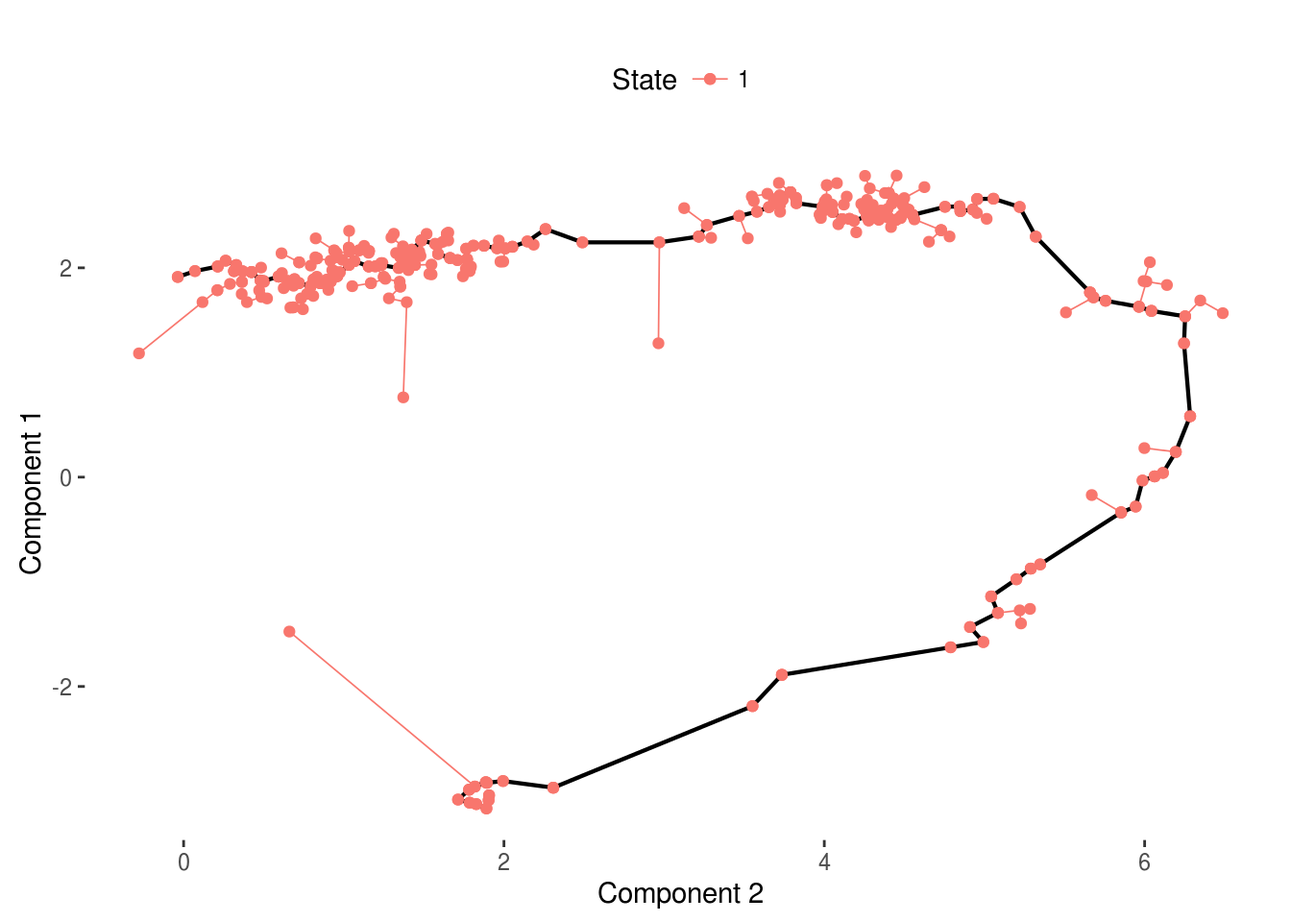
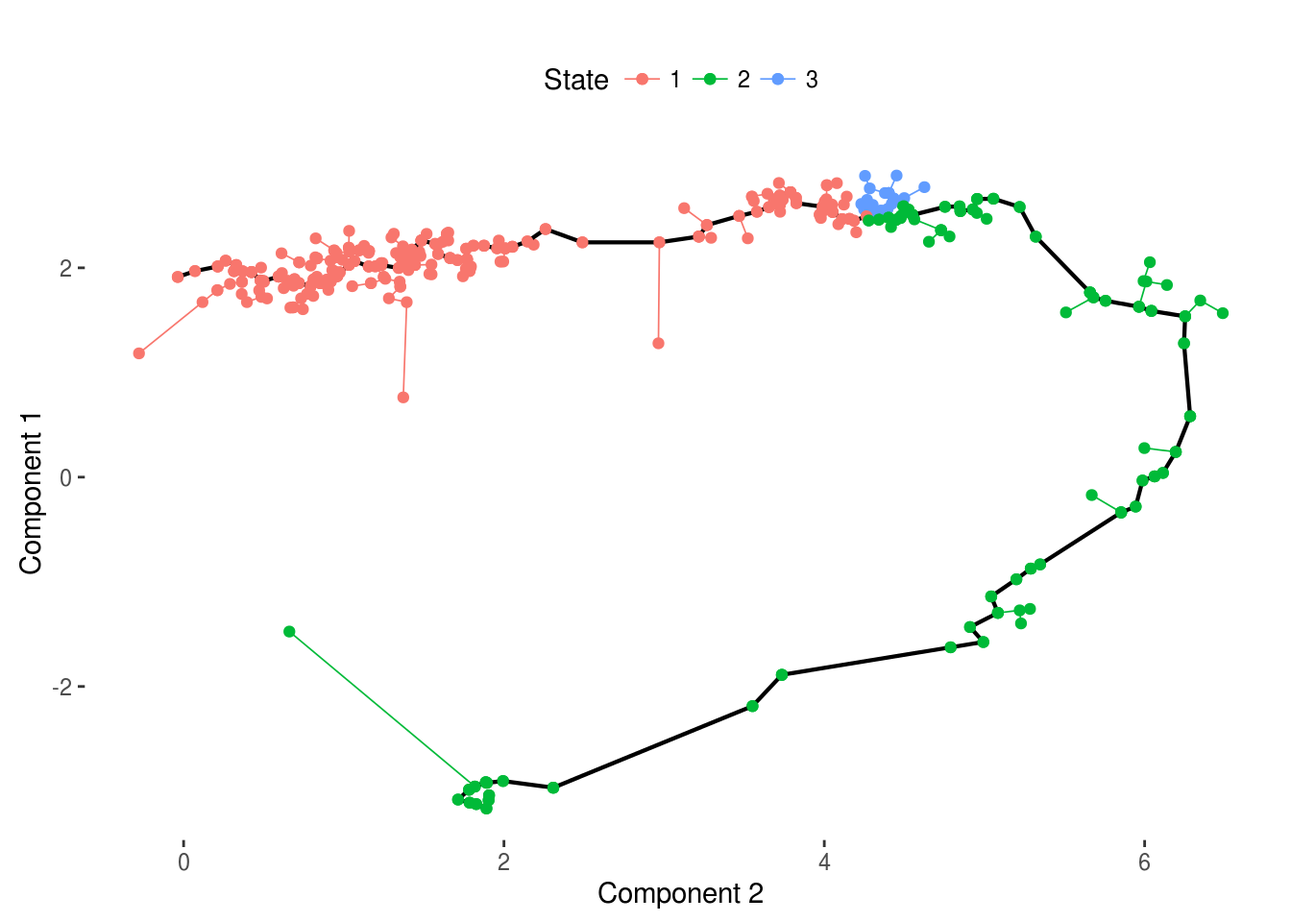
Build the book

diff --git a/ordering-of-cells-according-to-pseudotime.html b/ordering-of-cells-according-to-pseudotime.html
@@ -337,11 +337,12 @@ code > span.in { color: #60a0b0; font-weight: bold; font-style: italic; } /* Inf
 <span class="kw">library</span>(M3Drop)
 <span class="kw">library</span>(monocle)
 <span class="kw">set.seed</span>(<span class="dv">1</span>)</code></pre></div>
-<p>In many situations, one is studying a process where cells change continuously. This includes for example many differentiation processes taking place during development, where following a stimulus, cells will change from one cell-type to another. Ideally, we would like to monitor the expression levels of an individual cell over time. Unfortunately, such monitoring is not possible with scRNA-seq since the cell is lysed (killed) when the RNA is extracted.</p>
-<p>Instead, we must sample at specific time-points to obtain snapshots of the gene expression profiles. However, since some of the cells will proceed faster along the differentiation than others, the actual time may not correspond to the developmental progression. Thus, we would like to order the cells along a one-dimensional trajectory to identify the progression through state space of which can be interpreted as a temporal axis (hence the name pseudotime).</p>
+<p>In many situations, one is studying a process where cells change continuously. This includes for example many differentiation processes taking place during development, where following a stimulus, cells will change from one cell-type to another. Ideally, we would like to monitor the expression levels of an individual cell over time. Unfortunately, such monitoring is not possible with scRNA-seq since the cell is lysed (destroyed) when the RNA is extracted.</p>
+<p>Instead, we must sample at multiple time-points and obtain snapshots of the gene expression profiles. Since some of the cells will proceed faster along the differentiation than others, each snapshot may contain cells at varying points along the developmental progression. We use statistical methods to order the cells along one or more trajectories which represent the underlying developmental trajectories, this ordering is referred to a “pseudotime”.</p>
 <p>In this chapter we will consider two different tools, Monocle and TSCAN for ordering cells according to their pseudotime development. To illustrate the methods we will be using a dataset on mouse embryonic development that was collected by Deng et al. The dataset consists of 268 cells from 10 different time-points of early mouse development.</p>
 <div id="tscan" class="section level2">
 <h2><span class="header-section-number">19.1</span> TSCAN</h2>
+<p>TSCAN combines clustering with pseudotime analysis. First it clustering the cells using <code>mclust</code>, which is based on a mixture of normal distributions. Then it builds a minimum spanning tree to connect the clusters together. The branch of this tree which connects the largest number of clusters is the main branch which is used to determine pseudotime.</p>
 <p>First we will try to use all genes to order the cells.</p>
 <div class="sourceCode"><pre class="sourceCode r"><code class="sourceCode r">deng &lt;-<span class="st"> </span><span class="kw">readRDS</span>(<span class="st">&quot;deng/deng.rds&quot;</span>)
 cellLabels &lt;-<span class="st"> </span><span class="kw">colnames</span>(deng)
@@ -350,11 +351,42 @@ procdeng &lt;-<span class="st"> </span>TSCAN::<span class="kw">preprocess</span>
 dengclust &lt;-<span class="st"> </span>TSCAN::<span class="kw">exprmclust</span>(procdeng, <span class="dt">clusternum=</span><span class="dv">10</span>)
 TSCAN::<span class="kw">plotmclust</span>(dengclust)</code></pre></div>
 <p><img src="18-pseudotime_files/figure-html/tscan-all-genes-1.png" width="672" style="display: block; margin: auto;" /></p>
-<div class="sourceCode"><pre class="sourceCode r"><code class="sourceCode r">dengorderTSCAN &lt;-<span class="st"> </span>TSCAN::<span class="kw">TSCANorder</span>(dengclust, <span class="dt">orderonly=</span>F)</code></pre></div>
+<div class="sourceCode"><pre class="sourceCode r"><code class="sourceCode r">dengorderTSCAN &lt;-<span class="st"> </span>TSCAN::<span class="kw">TSCANorder</span>(dengclust, <span class="dt">orderonly=</span>F)
+pseudotime_order_tscan &lt;-<span class="st"> </span><span class="kw">as.character</span>(dengorderTSCAN$sample_name)
+pseudotime_order_tscan</code></pre></div>
+<pre><code>##   [1] &quot;9&quot;   &quot;12&quot;  &quot;3&quot;   &quot;2&quot;   &quot;8&quot;   &quot;4&quot;   &quot;1&quot;   &quot;6&quot;   &quot;10&quot;  &quot;11&quot;  &quot;7&quot;  
+##  [12] &quot;5&quot;   &quot;16&quot;  &quot;15&quot;  &quot;18&quot;  &quot;14&quot;  &quot;17&quot;  &quot;19&quot;  &quot;23&quot;  &quot;24&quot;  &quot;21&quot;  &quot;20&quot; 
+##  [23] &quot;22&quot;  &quot;29&quot;  &quot;28&quot;  &quot;30&quot;  &quot;32&quot;  &quot;13&quot;  &quot;31&quot;  &quot;27&quot;  &quot;34&quot;  &quot;25&quot;  &quot;33&quot; 
+##  [34] &quot;26&quot;  &quot;40&quot;  &quot;47&quot;  &quot;45&quot;  &quot;46&quot;  &quot;48&quot;  &quot;37&quot;  &quot;43&quot;  &quot;38&quot;  &quot;44&quot;  &quot;39&quot; 
+##  [45] &quot;41&quot;  &quot;81&quot;  &quot;85&quot;  &quot;111&quot; &quot;97&quot;  &quot;104&quot; &quot;96&quot;  &quot;128&quot; &quot;87&quot;  &quot;93&quot;  &quot;71&quot; 
+##  [56] &quot;99&quot;  &quot;114&quot; &quot;116&quot; &quot;60&quot;  &quot;64&quot;  &quot;105&quot; &quot;117&quot; &quot;100&quot; &quot;119&quot; &quot;51&quot;  &quot;115&quot;
+##  [67] &quot;108&quot; &quot;50&quot;  &quot;106&quot; &quot;89&quot;  &quot;132&quot; &quot;112&quot; &quot;58&quot;  &quot;75&quot;  &quot;63&quot;  &quot;66&quot;  &quot;65&quot; 
+##  [78] &quot;61&quot;  &quot;133&quot; &quot;120&quot; &quot;59&quot;  &quot;94&quot;  &quot;68&quot;  &quot;52&quot;  &quot;80&quot;  &quot;82&quot;  &quot;79&quot;  &quot;67&quot; 
+##  [89] &quot;91&quot;  &quot;88&quot;  &quot;124&quot; &quot;56&quot;  &quot;122&quot; &quot;62&quot;  &quot;121&quot; &quot;126&quot; &quot;125&quot; &quot;69&quot;  &quot;113&quot;
+## [100] &quot;123&quot; &quot;84&quot;  &quot;36&quot;  &quot;35&quot;  &quot;42&quot;  &quot;57&quot;  &quot;90&quot;  &quot;86&quot;  &quot;107&quot; &quot;92&quot;  &quot;70&quot; 
+## [111] &quot;135&quot; &quot;98&quot;  &quot;78&quot;  &quot;73&quot;  &quot;76&quot;  &quot;53&quot;  &quot;95&quot;  &quot;74&quot;  &quot;129&quot; &quot;55&quot;  &quot;49&quot; 
+## [122] &quot;130&quot; &quot;77&quot;  &quot;127&quot; &quot;54&quot;  &quot;134&quot; &quot;83&quot;  &quot;208&quot; &quot;228&quot; &quot;173&quot; &quot;205&quot; &quot;153&quot;
+## [133] &quot;142&quot; &quot;72&quot;  &quot;164&quot; &quot;207&quot; &quot;152&quot; &quot;179&quot; &quot;227&quot; &quot;165&quot; &quot;144&quot; &quot;169&quot; &quot;219&quot;
+## [144] &quot;171&quot; &quot;262&quot; &quot;170&quot; &quot;199&quot; &quot;253&quot; &quot;198&quot; &quot;200&quot; &quot;155&quot; &quot;212&quot; &quot;158&quot; &quot;197&quot;
+## [155] &quot;258&quot; &quot;157&quot; &quot;209&quot; &quot;156&quot; &quot;194&quot; &quot;188&quot; &quot;189&quot; &quot;252&quot; &quot;160&quot; &quot;191&quot; &quot;265&quot;
+## [166] &quot;187&quot; &quot;190&quot; &quot;195&quot; &quot;220&quot; &quot;263&quot; &quot;161&quot; &quot;213&quot; &quot;214&quot; &quot;222&quot; &quot;148&quot; &quot;196&quot;
+## [177] &quot;225&quot; &quot;259&quot; &quot;162&quot; &quot;183&quot; &quot;251&quot; &quot;193&quot; &quot;143&quot; &quot;182&quot; &quot;140&quot; &quot;206&quot; &quot;141&quot;
+## [188] &quot;201&quot; &quot;249&quot; &quot;261&quot; &quot;181&quot; &quot;239&quot; &quot;223&quot; &quot;255&quot; &quot;159&quot; &quot;260&quot; &quot;216&quot; &quot;151&quot;
+## [199] &quot;145&quot; &quot;235&quot; &quot;215&quot; &quot;211&quot; &quot;240&quot; &quot;268&quot; &quot;267&quot; &quot;257&quot; &quot;245&quot; &quot;256&quot; &quot;250&quot;
+## [210] &quot;217&quot; &quot;244&quot; &quot;237&quot; &quot;254&quot; &quot;233&quot; &quot;186&quot; &quot;234&quot; &quot;236&quot; &quot;246&quot; &quot;203&quot; &quot;180&quot;
+## [221] &quot;177&quot; &quot;149&quot; &quot;136&quot; &quot;185&quot; &quot;184&quot; &quot;231&quot; &quot;264&quot; &quot;178&quot; &quot;243&quot; &quot;204&quot; &quot;230&quot;
+## [232] &quot;176&quot; &quot;147&quot; &quot;202&quot; &quot;229&quot; &quot;154&quot; &quot;247&quot; &quot;172&quot; &quot;146&quot; &quot;232&quot; &quot;167&quot; &quot;238&quot;
+## [243] &quot;218&quot; &quot;266&quot; &quot;174&quot; &quot;168&quot; &quot;248&quot; &quot;241&quot; &quot;210&quot; &quot;242&quot; &quot;163&quot; &quot;224&quot; &quot;226&quot;
+## [254] &quot;221&quot; &quot;139&quot; &quot;150&quot; &quot;166&quot;</code></pre>
+<p>We can also examine which cells have been assigned to each state:</p>
+<div class="sourceCode"><pre class="sourceCode r"><code class="sourceCode r">cellLabels[dengclust$clusterid ==<span class="st"> </span><span class="dv">1</span>]</code></pre></div>
+<pre><code>##  [1] &quot;1&quot; &quot;1&quot; &quot;1&quot; &quot;1&quot; &quot;2&quot; &quot;2&quot; &quot;2&quot; &quot;2&quot; &quot;2&quot; &quot;2&quot; &quot;2&quot; &quot;2&quot;</code></pre>
+<p><strong>Exercise</strong> Compare results for different numbers of clusters (<code>clusternum</code>).</p>
 </div>
 <div id="monocle" class="section level2">
 <h2><span class="header-section-number">19.2</span> monocle</h2>
-<p>Unfortunately, Monocle does not work when all the genes are used, so we must carry out feature selection. First, we use M3D</p>
+<p>Monocle skips the clustering stage of TSCAN and directly builds a minimum spanning tree to connect all cells. Monocle then identifies the longest path in this tree to determine pseudotime. If the data contains diverging trajectories (i.e. one cell type differentiation into two different cell-types), monocle can identify alternative long paths in the tree using the argument <code>num_paths</code>. Each of the resulting forked paths is defined as a separate cell state, thus <code>num_paths=2</code> will identify three different cell states.</p>
+<p>Unfortunately, Monocle does not work when all the genes are used, so we must carry out feature selection. First, we use M3Drop:</p>
 <div class="sourceCode"><pre class="sourceCode r"><code class="sourceCode r">m3dGenes &lt;-<span class="st"> </span><span class="kw">as.character</span>(
     M3Drop::<span class="kw">M3Drop_Differential_Expression</span>(deng, <span class="dt">suppress.plot=</span>T)$Gene
 )
@@ -372,55 +404,47 @@ dCellData &lt;-<span class="st"> </span>monocle::<span class="kw">newCellDataSet
 dCellData &lt;-<span class="st"> </span>monocle::<span class="kw">setOrderingFilter</span>(dCellData, <span class="dv">1</span>:<span class="kw">length</span>(m3dGenes))
 dCellDataSet &lt;-<span class="st"> </span>monocle::<span class="kw">reduceDimension</span>(dCellData, <span class="dt">pseudo_expr=</span><span class="dv">1</span>)</code></pre></div>
 <pre><code>## Reducing to independent components</code></pre>
-<div class="sourceCode"><pre class="sourceCode r"><code class="sourceCode r">dCellDataSet &lt;-<span class="st"> </span>monocle::<span class="kw">orderCells</span>(dCellDataSet, <span class="dt">reverse=</span>T)
+<div class="sourceCode"><pre class="sourceCode r"><code class="sourceCode r">dCellDataSet &lt;-<span class="st"> </span>monocle::<span class="kw">orderCells</span>(dCellDataSet, <span class="dt">reverse=</span>T, <span class="dt">num_paths=</span><span class="dv">2</span>)
 monocle::<span class="kw">plot_spanning_tree</span>(dCellDataSet)</code></pre></div>
 <p><img src="18-pseudotime_files/figure-html/monocle-all-genes-1.png" width="672" style="display: block; margin: auto;" /></p>
-<p>As you can see, Monocle has identified 7 different states. This is probably not such a bad conclusion since we know that three of the time-points correspond to different stages of the two-cell embryo. Also, we saw that the three blastocyst stages correspond to inner cell mass and trophectoderm cells. We can take a closer look at the clusters</p>
-<div class="sourceCode"><pre class="sourceCode r"><code class="sourceCode r">dMonocleClusters &lt;-<span class="st"> </span><span class="kw">phenoData</span>(dCellDataSet)$State</code></pre></div>
-<p>Exercise: Compare the clusters identified by monocle with the annotated ones. How well do the labels correspond?</p>
-<p>Next, we investigate the order of the cells inferred by Monocle</p>
-<div class="sourceCode"><pre class="sourceCode r"><code class="sourceCode r">ts &lt;-<span class="st"> </span><span class="kw">as.matrix</span>(<span class="kw">phenoData</span>(dCellDataSet)$Pseudotime)
-dOrder &lt;-<span class="st"> </span><span class="kw">sort.int</span>(ts, <span class="dt">index.return=</span>T)$ix
-dOrder</code></pre></div>
-<pre><code>##   [1] 192 263 139 153 173 137 221 266 222 259 242 246 163 260 224 166 188
-##  [18] 238 227 248 264 234 231 261 258 243 241 268 233 247 226 252 262 267
-##  [35] 237 150 230 175 138 256 235 257 168 236 195 250 232 265 254 255 253
-##  [52] 178 229 223 190 196 148 152 164 147 170 155 156 140 154 186 228 167
-##  [69] 203 245 219 174 240 244 143 180 185 218 209 191 184 239 193 199 172
-##  [86] 151 145 179 136 189 204 187 181 197 220 225 176 157 144 198 182 183
-## [103] 200 160 146 165 159 207 161 194 158 142 177 171 217 249 215 251 216
-## [120] 211 201 202 162 149 210 213 141 214 206 169 212 208 205 131  72 118
-## [137] 101 125 135 102 110 117 124 133 128 109 127 120 113 134 122 129 121
-## [154] 126 119 130 132 108 105 115 114 112 100  99  88 123  97  91 111  66
-## [171]  70  96  71  63  94 106 107  90  58 104  67  76  60  89  87  86  93
-## [188]  54  55  92 116  73  98  95  51  74  61  56  53  52  49  50  75  64
-## [205]  62  79  57  85  83  68  65  59  77  84  82  69  78  80  81  38  39
-## [222]  35  41  42  44  43  37  40  36  45  46  47  48  26  30  33  34  25
-## [239]  27  29  28  31  32  17  18  13  20  24  19  14  22  23  21  15  16
-## [256]   5   8   2   1 103   4   3   9  10  11  12   7   6</code></pre>
-<p>Now, we repeat the exercise using TSCAN</p>
-<div class="sourceCode"><pre class="sourceCode r"><code class="sourceCode r">procdeng &lt;-<span class="st"> </span>TSCAN::<span class="kw">preprocess</span>(d, <span class="dt">clusternum=</span><span class="dv">10</span>)
-<span class="kw">colnames</span>(procdeng) &lt;-<span class="st"> </span><span class="dv">1</span>:<span class="dv">268</span>
-dengclust &lt;-<span class="st"> </span>TSCAN::<span class="kw">exprmclust</span>(procdeng, <span class="dt">clusternum=</span><span class="dv">10</span>)
-TSCAN::<span class="kw">plotmclust</span>(dengclust)</code></pre></div>
-<p><img src="18-pseudotime_files/figure-html/unnamed-chunk-3-1.png" width="672" style="display: block; margin: auto;" /></p>
-<div class="sourceCode"><pre class="sourceCode r"><code class="sourceCode r">dengorderTSCAN &lt;-<span class="st"> </span>TSCAN::<span class="kw">TSCANorder</span>(dengclust, <span class="dt">orderonly=</span>F)</code></pre></div>
-<p>Exercise: Use TSCAN to obtain 7 clusters and compare the groups with those obtained from Monocle</p>
+<div class="sourceCode"><pre class="sourceCode r"><code class="sourceCode r">pseudotime_monocle &lt;-<span class="st"> </span><span class="kw">data.frame</span>(<span class="dt">Cell =</span> cellLabels, 
+                                <span class="dt">time =</span> <span class="kw">phenoData</span>(dCellDataSet)$Pseudotime, 
+                                <span class="dt">State=</span><span class="kw">phenoData</span>(dCellDataSet)$State)
+pseudotime_order_monocle &lt;-<span class="st"> </span><span class="kw">rownames</span>(pseudotime_monocle[<span class="kw">order</span>(pseudotime_monocle$time), ])
+pseudotime_order_monocle</code></pre></div>
+<pre><code>##   [1] &quot;192&quot; &quot;263&quot; &quot;139&quot; &quot;153&quot; &quot;173&quot; &quot;137&quot; &quot;221&quot; &quot;266&quot; &quot;222&quot; &quot;259&quot; &quot;242&quot;
+##  [12] &quot;246&quot; &quot;163&quot; &quot;260&quot; &quot;224&quot; &quot;166&quot; &quot;188&quot; &quot;238&quot; &quot;227&quot; &quot;248&quot; &quot;264&quot; &quot;234&quot;
+##  [23] &quot;231&quot; &quot;261&quot; &quot;258&quot; &quot;243&quot; &quot;241&quot; &quot;268&quot; &quot;233&quot; &quot;247&quot; &quot;226&quot; &quot;252&quot; &quot;262&quot;
+##  [34] &quot;267&quot; &quot;237&quot; &quot;150&quot; &quot;230&quot; &quot;175&quot; &quot;138&quot; &quot;256&quot; &quot;235&quot; &quot;257&quot; &quot;168&quot; &quot;236&quot;
+##  [45] &quot;195&quot; &quot;250&quot; &quot;232&quot; &quot;265&quot; &quot;254&quot; &quot;255&quot; &quot;253&quot; &quot;178&quot; &quot;229&quot; &quot;223&quot; &quot;190&quot;
+##  [56] &quot;196&quot; &quot;148&quot; &quot;152&quot; &quot;164&quot; &quot;147&quot; &quot;170&quot; &quot;155&quot; &quot;156&quot; &quot;140&quot; &quot;154&quot; &quot;186&quot;
+##  [67] &quot;228&quot; &quot;167&quot; &quot;203&quot; &quot;245&quot; &quot;219&quot; &quot;174&quot; &quot;240&quot; &quot;244&quot; &quot;143&quot; &quot;180&quot; &quot;185&quot;
+##  [78] &quot;218&quot; &quot;209&quot; &quot;191&quot; &quot;184&quot; &quot;239&quot; &quot;193&quot; &quot;199&quot; &quot;172&quot; &quot;151&quot; &quot;145&quot; &quot;179&quot;
+##  [89] &quot;136&quot; &quot;189&quot; &quot;204&quot; &quot;187&quot; &quot;181&quot; &quot;197&quot; &quot;220&quot; &quot;225&quot; &quot;176&quot; &quot;157&quot; &quot;144&quot;
+## [100] &quot;198&quot; &quot;182&quot; &quot;183&quot; &quot;200&quot; &quot;160&quot; &quot;146&quot; &quot;165&quot; &quot;159&quot; &quot;207&quot; &quot;161&quot; &quot;194&quot;
+## [111] &quot;158&quot; &quot;142&quot; &quot;177&quot; &quot;171&quot; &quot;217&quot; &quot;249&quot; &quot;215&quot; &quot;251&quot; &quot;216&quot; &quot;211&quot; &quot;201&quot;
+## [122] &quot;202&quot; &quot;162&quot; &quot;149&quot; &quot;210&quot; &quot;213&quot; &quot;141&quot; &quot;214&quot; &quot;206&quot; &quot;169&quot; &quot;212&quot; &quot;208&quot;
+## [133] &quot;205&quot; &quot;131&quot; &quot;72&quot;  &quot;118&quot; &quot;101&quot; &quot;125&quot; &quot;135&quot; &quot;102&quot; &quot;110&quot; &quot;117&quot; &quot;124&quot;
+## [144] &quot;133&quot; &quot;128&quot; &quot;109&quot; &quot;127&quot; &quot;120&quot; &quot;113&quot; &quot;134&quot; &quot;122&quot; &quot;129&quot; &quot;121&quot; &quot;126&quot;
+## [155] &quot;119&quot; &quot;130&quot; &quot;132&quot; &quot;108&quot; &quot;105&quot; &quot;115&quot; &quot;114&quot; &quot;112&quot; &quot;100&quot; &quot;99&quot;  &quot;88&quot; 
+## [166] &quot;123&quot; &quot;97&quot;  &quot;91&quot;  &quot;111&quot; &quot;66&quot;  &quot;70&quot;  &quot;96&quot;  &quot;71&quot;  &quot;94&quot;  &quot;63&quot;  &quot;98&quot; 
+## [177] &quot;95&quot;  &quot;51&quot;  &quot;73&quot;  &quot;74&quot;  &quot;116&quot; &quot;92&quot;  &quot;61&quot;  &quot;55&quot;  &quot;54&quot;  &quot;56&quot;  &quot;93&quot; 
+## [188] &quot;53&quot;  &quot;52&quot;  &quot;86&quot;  &quot;49&quot;  &quot;87&quot;  &quot;50&quot;  &quot;89&quot;  &quot;75&quot;  &quot;64&quot;  &quot;60&quot;  &quot;62&quot; 
+## [199] &quot;76&quot;  &quot;79&quot;  &quot;67&quot;  &quot;57&quot;  &quot;85&quot;  &quot;104&quot; &quot;83&quot;  &quot;58&quot;  &quot;90&quot;  &quot;107&quot; &quot;106&quot;
+## [210] &quot;68&quot;  &quot;65&quot;  &quot;59&quot;  &quot;77&quot;  &quot;84&quot;  &quot;82&quot;  &quot;69&quot;  &quot;78&quot;  &quot;80&quot;  &quot;81&quot;  &quot;38&quot; 
+## [221] &quot;39&quot;  &quot;35&quot;  &quot;41&quot;  &quot;42&quot;  &quot;44&quot;  &quot;43&quot;  &quot;37&quot;  &quot;40&quot;  &quot;36&quot;  &quot;45&quot;  &quot;46&quot; 
+## [232] &quot;47&quot;  &quot;48&quot;  &quot;26&quot;  &quot;30&quot;  &quot;33&quot;  &quot;34&quot;  &quot;25&quot;  &quot;27&quot;  &quot;29&quot;  &quot;28&quot;  &quot;31&quot; 
+## [243] &quot;32&quot;  &quot;17&quot;  &quot;18&quot;  &quot;13&quot;  &quot;20&quot;  &quot;24&quot;  &quot;19&quot;  &quot;14&quot;  &quot;22&quot;  &quot;23&quot;  &quot;21&quot; 
+## [254] &quot;15&quot;  &quot;16&quot;  &quot;5&quot;   &quot;8&quot;   &quot;2&quot;   &quot;1&quot;   &quot;103&quot; &quot;4&quot;   &quot;3&quot;   &quot;9&quot;   &quot;10&quot; 
+## [265] &quot;11&quot;  &quot;12&quot;  &quot;7&quot;   &quot;6&quot;</code></pre>
 </div>
 <div id="comparison-of-the-methods" class="section level2">
 <h2><span class="header-section-number">19.3</span> Comparison of the methods</h2>
 <p>How do the trajectories inferred by TSCAN and Monocle compare?</p>
-<div class="sourceCode"><pre class="sourceCode r"><code class="sourceCode r">inds &lt;-<span class="st"> </span>dengorderTSCAN$sample_name
-<span class="kw">plot</span>(
-    <span class="kw">rev</span>(dengorderTSCAN[,<span class="dv">3</span>]), 
-    <span class="kw">pData</span>(dCellDataSet)[inds,<span class="dv">3</span>], 
-    <span class="dt">col=</span>cellLabels[<span class="kw">as.numeric</span>(inds)], 
-    <span class="dt">pch=</span><span class="dv">20</span>, 
-    <span class="dt">xlab=</span><span class="st">&quot;TSCAN&quot;</span>, 
-    <span class="dt">ylab=</span><span class="st">&quot;Monocle&quot;</span>
-)</code></pre></div>
+<div class="sourceCode"><pre class="sourceCode r"><code class="sourceCode r">matched_ordering &lt;-<span class="st"> </span><span class="kw">match</span>(pseudotime_order_tscan, pseudotime_order_monocle)
+<span class="kw">plot</span>(matched_ordering, <span class="dt">xlab =</span> <span class="st">&quot;Monocle Order&quot;</span>, <span class="dt">ylab =</span> <span class="st">&quot;TSCAN Order&quot;</span>)</code></pre></div>
 <p><img src="18-pseudotime_files/figure-html/tscan-monocle-compare-1.png" width="672" style="display: block; margin: auto;" /></p>
-<p>Exercise: Repeat the exercise using a subset of the genes, e.g. the set of highly variable genes that can be obtained using M3Drop::Brennecke_getVariableGenes</p>
+<p><strong>Exercise</strong>: Repeat the exercise using a subset of the genes, e.g. the set of highly variable genes that can be obtained using M3Drop::Brennecke_getVariableGenes</p>
 
 </div>
 </div>

diff --git a/18-pseudotime.md b/18-pseudotime.md
@@ -20,15 +20,14 @@ taking place during development, where following a stimulus, cells
 will change from one cell-type to another. Ideally, we would like to
 monitor the expression levels of an individual cell over
 time. Unfortunately, such monitoring is not possible with scRNA-seq
-since the cell is lysed (killed) when the RNA is extracted.
+since the cell is lysed (destroyed) when the RNA is extracted.
 
-Instead, we must sample at specific time-points to obtain snapshots of
-the gene expression profiles. However, since some of the cells will
-proceed faster along the differentiation than others, the actual time
-may not correspond to the developmental progression. Thus, we would
-like to order the cells along a one-dimensional trajectory to identify
-the progression through state space of which can be interpreted as a
-temporal axis (hence the name pseudotime).
+Instead, we must sample at multiple time-points and obtain snapshots of
+the gene expression profiles. Since some of the cells will
+proceed faster along the differentiation than others, each snapshot may contain
+cells at varying points along the developmental progression. We use statistical methods
+ to order the cells along one or more trajectories which represent the underlying
+ developmental trajectories, this ordering is referred to a "pseudotime".
 
 In this chapter we will consider two different tools, Monocle and
 TSCAN for ordering cells according to their pseudotime development. To
@@ -37,6 +36,9 @@ development that was collected by Deng et al. The dataset consists of
 268 cells from 10 different time-points of early mouse development.
 
 ## TSCAN
+
+TSCAN combines clustering with pseudotime analysis. First it clustering the cells using `mclust`, 
+which is based on a mixture of normal distributions. Then it builds a minimum spanning tree to connect the clusters together. The branch of this tree which connects the largest number of clusters is the main branch which is used to determine pseudotime.
 
 First we will try to use all genes to order the cells.
 
@@ -53,12 +55,55 @@ TSCAN::plotmclust(dengclust)
 
 ```r
 dengorderTSCAN <- TSCAN::TSCANorder(dengclust, orderonly=F)
+pseudotime_order_tscan <- as.character(dengorderTSCAN$sample_name)
+pseudotime_order_tscan
 ```
+
+```
+##   [1] "9"   "12"  "3"   "2"   "8"   "4"   "1"   "6"   "10"  "11"  "7"  
+##  [12] "5"   "16"  "15"  "18"  "14"  "17"  "19"  "23"  "24"  "21"  "20" 
+##  [23] "22"  "29"  "28"  "30"  "32"  "13"  "31"  "27"  "34"  "25"  "33" 
+##  [34] "26"  "40"  "47"  "45"  "46"  "48"  "37"  "43"  "38"  "44"  "39" 
+##  [45] "41"  "81"  "85"  "111" "97"  "104" "96"  "128" "87"  "93"  "71" 
+##  [56] "99"  "114" "116" "60"  "64"  "105" "117" "100" "119" "51"  "115"
+##  [67] "108" "50"  "106" "89"  "132" "112" "58"  "75"  "63"  "66"  "65" 
+##  [78] "61"  "133" "120" "59"  "94"  "68"  "52"  "80"  "82"  "79"  "67" 
+##  [89] "91"  "88"  "124" "56"  "122" "62"  "121" "126" "125" "69"  "113"
+## [100] "123" "84"  "36"  "35"  "42"  "57"  "90"  "86"  "107" "92"  "70" 
+## [111] "135" "98"  "78"  "73"  "76"  "53"  "95"  "74"  "129" "55"  "49" 
+## [122] "130" "77"  "127" "54"  "134" "83"  "208" "228" "173" "205" "153"
+## [133] "142" "72"  "164" "207" "152" "179" "227" "165" "144" "169" "219"
+## [144] "171" "262" "170" "199" "253" "198" "200" "155" "212" "158" "197"
+## [155] "258" "157" "209" "156" "194" "188" "189" "252" "160" "191" "265"
+## [166] "187" "190" "195" "220" "263" "161" "213" "214" "222" "148" "196"
+## [177] "225" "259" "162" "183" "251" "193" "143" "182" "140" "206" "141"
+## [188] "201" "249" "261" "181" "239" "223" "255" "159" "260" "216" "151"
+## [199] "145" "235" "215" "211" "240" "268" "267" "257" "245" "256" "250"
+## [210] "217" "244" "237" "254" "233" "186" "234" "236" "246" "203" "180"
+## [221] "177" "149" "136" "185" "184" "231" "264" "178" "243" "204" "230"
+## [232] "176" "147" "202" "229" "154" "247" "172" "146" "232" "167" "238"
+## [243] "218" "266" "174" "168" "248" "241" "210" "242" "163" "224" "226"
+## [254] "221" "139" "150" "166"
+```
+
+We can also examine which cells have been assigned to each state:
+
+
+```r
+cellLabels[dengclust$clusterid == 1]
+```
+
+```
+##  [1] "1" "1" "1" "1" "2" "2" "2" "2" "2" "2" "2" "2"
+```
+__Exercise__ Compare results for different numbers of clusters (`clusternum`).
 
 ## monocle
 
+Monocle skips the clustering stage of TSCAN and directly builds a minimum spanning tree to connect all cells. Monocle then identifies the longest path in this tree to determine pseudotime. If the data contains diverging trajectories (i.e. one cell type differentiation into two different cell-types), monocle can identify alternative long paths in the tree using the argument `num_paths`. Each of the resulting forked paths is defined as a separate cell state, thus `num_paths=2` will identify three different cell states.
+
 Unfortunately, Monocle does not work when all the genes are used, so
-we must carry out feature selection. First, we use M3D
+we must carry out feature selection. First, we use M3Drop:
 
 ```r
 m3dGenes <- as.character(
@@ -88,87 +133,58 @@ dCellDataSet <- monocle::reduceDimension(dCellData, pseudo_expr=1)
 ```
 
 ```r
-dCellDataSet <- monocle::orderCells(dCellDataSet, reverse=T)
+dCellDataSet <- monocle::orderCells(dCellDataSet, reverse=T, num_paths=2)
 monocle::plot_spanning_tree(dCellDataSet)
 ```
 
 <img src="18-pseudotime_files/figure-html/monocle-all-genes-1.png" width="672" style="display: block; margin: auto;" />
 
-As you can see, Monocle has identified 7 different states. This is
-probably not such a bad conclusion since we know that three of the
-time-points correspond to different stages of the two-cell
-embryo. Also, we saw that the three blastocyst stages correspond to
-inner cell mass and trophectoderm cells. We can take a closer look at
-the clusters
-
 ```r
-dMonocleClusters <- phenoData(dCellDataSet)$State
-```
-
-Exercise: Compare the clusters identified by monocle with the annotated ones. How well do the labels correspond?
-
-
-Next, we investigate the order of the cells inferred by Monocle
-
-```r
-ts <- as.matrix(phenoData(dCellDataSet)$Pseudotime)
-dOrder <- sort.int(ts, index.return=T)$ix
-dOrder
+pseudotime_monocle <- data.frame(Cell = cellLabels, 
+                                time = phenoData(dCellDataSet)$Pseudotime, 
+                                State=phenoData(dCellDataSet)$State)
+pseudotime_order_monocle <- rownames(pseudotime_monocle[order(pseudotime_monocle$time), ])
+pseudotime_order_monocle
 ```
 
 ```
-##   [1] 192 263 139 153 173 137 221 266 222 259 242 246 163 260 224 166 188
-##  [18] 238 227 248 264 234 231 261 258 243 241 268 233 247 226 252 262 267
-##  [35] 237 150 230 175 138 256 235 257 168 236 195 250 232 265 254 255 253
-##  [52] 178 229 223 190 196 148 152 164 147 170 155 156 140 154 186 228 167
-##  [69] 203 245 219 174 240 244 143 180 185 218 209 191 184 239 193 199 172
-##  [86] 151 145 179 136 189 204 187 181 197 220 225 176 157 144 198 182 183
-## [103] 200 160 146 165 159 207 161 194 158 142 177 171 217 249 215 251 216
-## [120] 211 201 202 162 149 210 213 141 214 206 169 212 208 205 131  72 118
-## [137] 101 125 135 102 110 117 124 133 128 109 127 120 113 134 122 129 121
-## [154] 126 119 130 132 108 105 115 114 112 100  99  88 123  97  91 111  66
-## [171]  70  96  71  63  94 106 107  90  58 104  67  76  60  89  87  86  93
-## [188]  54  55  92 116  73  98  95  51  74  61  56  53  52  49  50  75  64
-## [205]  62  79  57  85  83  68  65  59  77  84  82  69  78  80  81  38  39
-## [222]  35  41  42  44  43  37  40  36  45  46  47  48  26  30  33  34  25
-## [239]  27  29  28  31  32  17  18  13  20  24  19  14  22  23  21  15  16
-## [256]   5   8   2   1 103   4   3   9  10  11  12   7   6
+##   [1] "192" "263" "139" "153" "173" "137" "221" "266" "222" "259" "242"
+##  [12] "246" "163" "260" "224" "166" "188" "238" "227" "248" "264" "234"
+##  [23] "231" "261" "258" "243" "241" "268" "233" "247" "226" "252" "262"
+##  [34] "267" "237" "150" "230" "175" "138" "256" "235" "257" "168" "236"
+##  [45] "195" "250" "232" "265" "254" "255" "253" "178" "229" "223" "190"
+##  [56] "196" "148" "152" "164" "147" "170" "155" "156" "140" "154" "186"
+##  [67] "228" "167" "203" "245" "219" "174" "240" "244" "143" "180" "185"
+##  [78] "218" "209" "191" "184" "239" "193" "199" "172" "151" "145" "179"
+##  [89] "136" "189" "204" "187" "181" "197" "220" "225" "176" "157" "144"
+## [100] "198" "182" "183" "200" "160" "146" "165" "159" "207" "161" "194"
+## [111] "158" "142" "177" "171" "217" "249" "215" "251" "216" "211" "201"
+## [122] "202" "162" "149" "210" "213" "141" "214" "206" "169" "212" "208"
+## [133] "205" "131" "72"  "118" "101" "125" "135" "102" "110" "117" "124"
+## [144] "133" "128" "109" "127" "120" "113" "134" "122" "129" "121" "126"
+## [155] "119" "130" "132" "108" "105" "115" "114" "112" "100" "99"  "88" 
+## [166] "123" "97"  "91"  "111" "66"  "70"  "96"  "71"  "94"  "63"  "98" 
+## [177] "95"  "51"  "73"  "74"  "116" "92"  "61"  "55"  "54"  "56"  "93" 
+## [188] "53"  "52"  "86"  "49"  "87"  "50"  "89"  "75"  "64"  "60"  "62" 
+## [199] "76"  "79"  "67"  "57"  "85"  "104" "83"  "58"  "90"  "107" "106"
+## [210] "68"  "65"  "59"  "77"  "84"  "82"  "69"  "78"  "80"  "81"  "38" 
+## [221] "39"  "35"  "41"  "42"  "44"  "43"  "37"  "40"  "36"  "45"  "46" 
+## [232] "47"  "48"  "26"  "30"  "33"  "34"  "25"  "27"  "29"  "28"  "31" 
+## [243] "32"  "17"  "18"  "13"  "20"  "24"  "19"  "14"  "22"  "23"  "21" 
+## [254] "15"  "16"  "5"   "8"   "2"   "1"   "103" "4"   "3"   "9"   "10" 
+## [265] "11"  "12"  "7"   "6"
 ```
-
-Now, we repeat the exercise using TSCAN
-
-```r
-procdeng <- TSCAN::preprocess(d, clusternum=10)
-colnames(procdeng) <- 1:268
-dengclust <- TSCAN::exprmclust(procdeng, clusternum=10)
-TSCAN::plotmclust(dengclust)
-```
-
-<img src="18-pseudotime_files/figure-html/unnamed-chunk-3-1.png" width="672" style="display: block; margin: auto;" />
-
-```r
-dengorderTSCAN <- TSCAN::TSCANorder(dengclust, orderonly=F)
-```
-
-Exercise: Use TSCAN to obtain 7 clusters and compare the groups with those obtained from Monocle
 
 ## Comparison of the methods
 
 How do the trajectories inferred by TSCAN and Monocle compare?
 
 ```r
-inds <- dengorderTSCAN$sample_name
-plot(
-    rev(dengorderTSCAN[,3]), 
-    pData(dCellDataSet)[inds,3], 
-    col=cellLabels[as.numeric(inds)], 
-    pch=20, 
-    xlab="TSCAN", 
-    ylab="Monocle"
-)
+matched_ordering <- match(pseudotime_order_tscan, pseudotime_order_monocle)
+plot(matched_ordering, xlab = "Monocle Order", ylab = "TSCAN Order")
 ```
 
 <img src="18-pseudotime_files/figure-html/tscan-monocle-compare-1.png" width="672" style="display: block; margin: auto;" />
 
-Exercise: Repeat the exercise using a subset of the genes, e.g. the set of highly variable genes that can be obtained using M3Drop::Brennecke_getVariableGenes
+__Exercise__: Repeat the exercise using a subset of the genes, e.g. the set of highly variable genes that can be obtained using M3Drop::Brennecke_getVariableGenes
 
